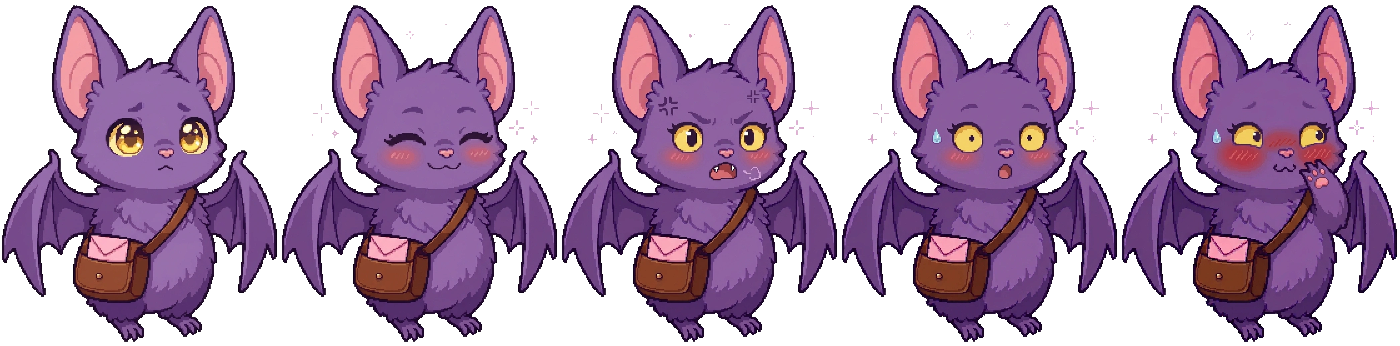
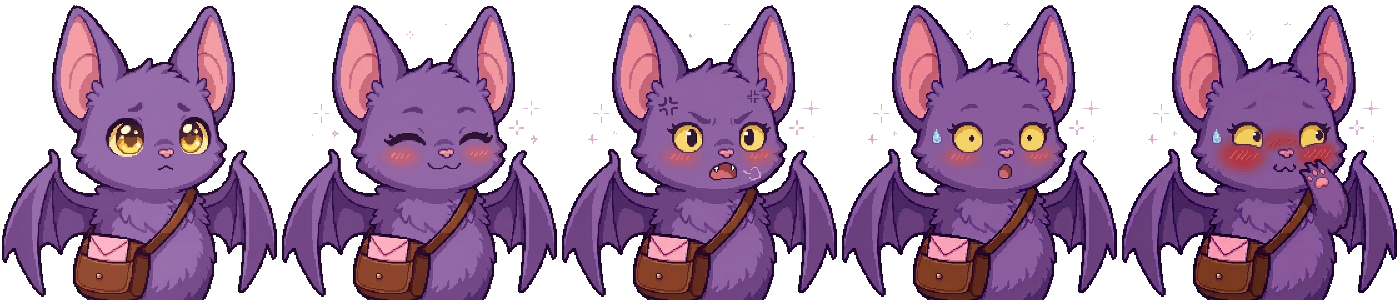
캇파 초상(5표정) 추가, 배트리·캇파는 허리 위까지만 나오게 자름
Claude-Session: https://claude.ai/code/session_01HhJ2NoNCjk5kaA3GWL7UDs

diff --git a/public/index.html b/public/index.html
@@ -3694,7 +3694,7 @@ function storyReward(c){
 }
 // 메인 주인공 초상화 (public/art/portraits/<id>.png, 5칸: 기본·웃음·화남·놀람·부끄러움 — tools/portraits.py)
 // 서브 NPC 대사창 초상 (art/portraits/<이름>.png, 5표정 한 줄: 기본·웃음·화남·놀람·부끄러움). 아직 그린 애들만 있어요
-const SUB_PORT = { nabi: { portrait: 'nabi', pasp: '266/266' }, batri: { portrait: 'batri', pasp: '280/346' } };
+const SUB_PORT = { nabi: { portrait: 'nabi', pasp: '266/266' }, batri: { portrait: 'batri', pasp: '280/300' }, kappa: { portrait: 'kappa', pasp: '273/266' } };
 const PORTRAITS = { m_jack: ['jack', '128/171'], m_lucian: ['lucian', '224/300'], m_mirabel: ['mirabel', '265/363'], m_frankie: ['frankie', '99/133'], m_wolfgang: ['wolfgang', '99/133'], m_boo: ['boo', '122/177'], m_hazel: ['hazel', '128/171'] }, PORTRAIT_V = 13, PFACE = ['neutral', 'happy', 'angry', 'surprised', 'shy'];
 // 대사 내용으로 표정 고르기 (따로 표시가 없을 때)
 function faceOf(t){

diff --git a/tools/portraits.py b/tools/portraits.py
@@ -19,8 +19,8 @@ POCKETS = {'hazel'}
 HOLES = {'frankie': [(.324, .576), (.675, .576)]}
 # 한 표정만 확대돼서 뽑혔을 때: 그 표정을 (배율, 왼쪽, 위)로 줄여 옮기고, 모든 표정을 같이 잘라요 (왼, 위, 오른, 아래)
 FIT = {'boo': {'happy': (.83, 59, 71)}}
-WHITE_MIN = {'mirabel': 253, 'nabi': 250, 'batri': 250}   # 붕대가 흰색에 가까워서, 배경(순백)만 지워지게 문턱을 높여요
-CROP = {'boo': (66, 0, 798, 1062), 'mirabel': (41, 0, 837, 1090), 'nabi': (30, 60, 830, 860), 'batri': (30, 70, 870, 1110)}
+WHITE_MIN = {'mirabel': 253, 'nabi': 250, 'batri': 250, 'kappa': 250}   # 붕대가 흰색에 가까워서, 배경(순백)만 지워지게 문턱을 높여요
+CROP = {'boo': (66, 0, 798, 1062), 'mirabel': (41, 0, 837, 1090), 'nabi': (30, 60, 830, 860), 'batri': (30, 70, 870, 970), 'kappa': (40, 100, 860, 900)}
 def fit(a, t):
     s, dx, dy = t; H, W = a.shape[:2]
     im = Image.fromarray(a).resize((round(W * s), round(H * s)), Image.NEAREST)

diff --git a/docs/TODO.md b/docs/TODO.md
@@ -4,7 +4,7 @@
 - [x] **마들렌 대사 성별 표현 점검 (남성으로 확정)**: 마들렌이 남성으로 정해졌어요. 서브 NPC 대사(`public/data/npc/madeleine/` 하트 이벤트 10개, 평소 대사 `profile.json`, `index.html`의 `NPC_DEF` greet/story)와 다른 NPC·메인 의뢰 대사에서 마들렌을 여성으로 부르는 표현(예: 「언니」, 「그녀」, 「아가씨」, 「제빵사 누나」)을 전부 찾아 남성에 맞게 고치기. 말투(`tone`)도 남성 제빵사에 어색하지 않은지 확인. 점검 뒤 `scripts/validate_npc.py`로 검증. → 점검 완료: 마들렌 대사·프로필·다른 NPC·메인 의뢰에서 여성 표현 없음, 검증 위반 0건.
 - [ ] 서브 NPC 초상 4명(세라·마들렌·스텔라·레오) 새 초상이 나오면 처리: 흰 배경 지우기·규격 맞추기·얼굴 틀 연결 (`tools/portraits.py` 사용, 붕대처럼 흰 부분이 있으면 `WHITE_MIN` 조정)
 - [x] 나비 초상 적용 완료 (`tools/portraits_src/nabi_*.webp` → `public/art/portraits/nabi.png`, `SUB_PORT`에 등록)
-- [ ] 서브 동물 NPC 초상 처리 (배트리 완료 · 캇파·아울라·맨디·짚신 남음): 그림이 오면 `tools/portraits.py`의 `CROP`(아래가 자연스럽게 잘리게)·`WHITE_MIN`을 정하고 `index.html`의 `SUB_PORT`에 한 줄씩 추가
+- [ ] 서브 동물 NPC 초상 처리 (배트리·캇파 완료 · 아울라·맨디·짚신 남음): 그림이 오면 `tools/portraits.py`의 `CROP`(아래가 자연스럽게 잘리게)·`WHITE_MIN`을 정하고 `index.html`의 `SUB_PORT`에 한 줄씩 추가
 
 ## 설계·구현 대기
 - [x] 탐사 1단계(솔로 + 동료 2명 자동 전투) 배포됨 → 다음: 협동·방·투표, 스탯/스킬 트리, 직업 9종, 지역 3곳, 관리자 직업 창
